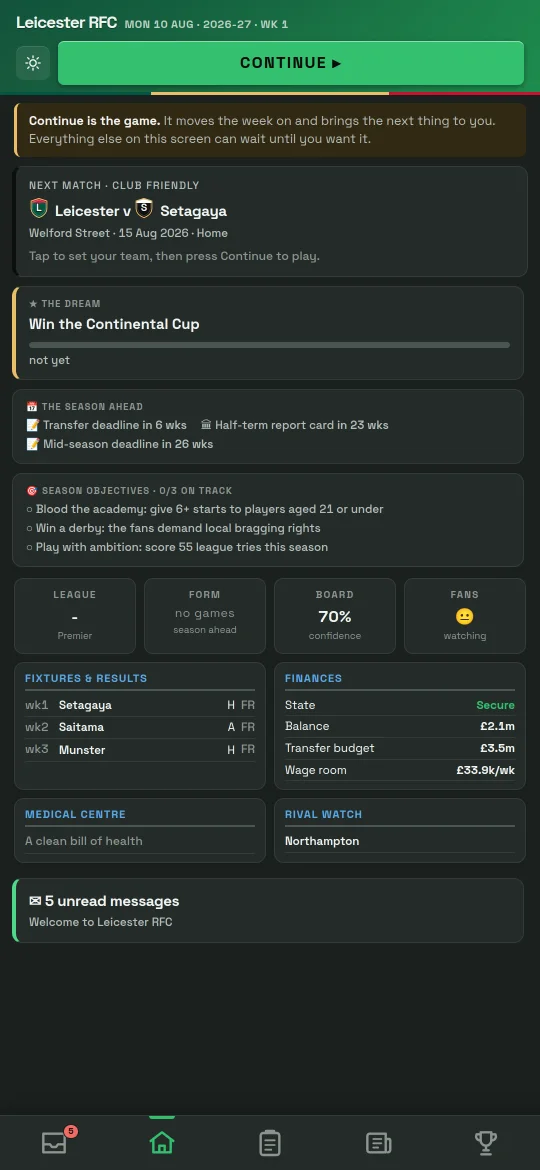
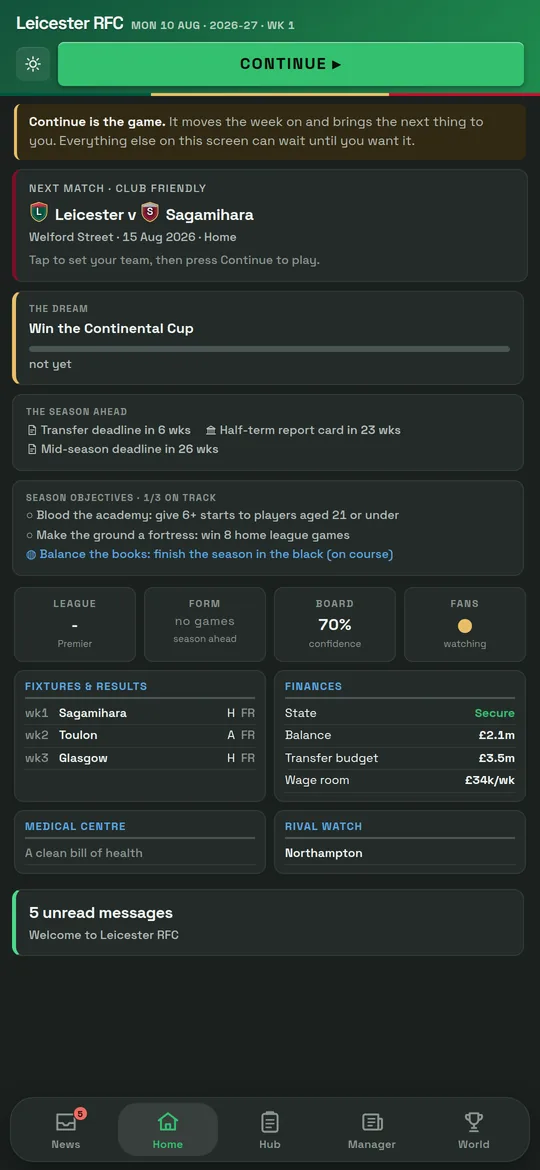
FWDS & BCKS LTD as publisher; info@fwdsandbcks.com; the landing page brought up to date
The game's contact address is now info@fwdsandbcks.com (bugreport.ts
DEV_CONTACT, the one place it lives), and About names the publisher with its
registered address. The privacy policy gains a Who we are section, names the
company where it said "the developer", says the store and Discord links open
outside the game only when tapped, and loses its two em dashes.

The landing page: 171 clubs in fifteen leagues (it still said over a hundred
in eight), four screenshots from the 1.8.0 build (team sheet, live match,
full time, home), two new features (player against player, the community),
a Discord button and footer link, and the publisher and version in the
footer. landingprobe checks the publisher and that the footer's version is
package.json's; storeprobe and the listing carry the new address.

Claude-Session: https://claude.ai/code/session_019rwDxFWEwuYK7ZNhpgNECm

diff --git a/landing/index.html b/landing/index.html
@@ -6,7 +6,7 @@
 <meta name="color-scheme" content="dark">
 <meta name="theme-color" content="#1a201e">
 <title>PHASE: Rugby Manager</title>
-<meta name="description" content="Take a club from the bottom to the top. A deep, offline rugby union manager for iPhone and Android, with over a hundred clubs across eight competitions.">
+<meta name="description" content="Take a club from the bottom to the top. A deep, offline rugby union manager for iPhone and Android, with 171 clubs in fifteen leagues across the men's and women's game.">
 <link rel="canonical" href="https://phaserugbymanager.com/">
 <link rel="icon" href="./img/icon.svg" type="image/svg+xml">
 <link rel="apple-touch-icon" sizes="180x180" href="./img/icon-180.png">
@@ -299,7 +299,7 @@ footer a:hover { color: var(--primary); }
 <main>
   <section class="wrap">
     <h2>A career worth the chase</h2>
-    <p class="sub">Over a hundred clubs across eight competitions, from the English top flight to Japan, with second tiers, a continental cup, playoffs and promotion underneath them. Men's and women's games, each with their own clubs, competitions and challenges.</p>
+    <p class="sub">171 clubs in fifteen leagues. Nine in the men's game, from the English top flight to Japan and the United States; six in the women's game, built the same way. Second tiers, continental cups, playoffs and promotion underneath them.</p>
 
     <div class="shots" id="shots">
       <figure class="shot">
@@ -307,7 +307,11 @@ footer a:hover { color: var(--primary); }
         <figcaption>Name a side. Live with it.</figcaption>
       </figure>
       <figure class="shot">
-        <img src="./img/shot-match.webp" alt="A finished match: the full-time score, the scorers and the match statistics." width="540" height="1170" loading="lazy">
+        <img src="./img/shot-live.webp" alt="A live match: the score, the latest commentary line and the live statistics." width="540" height="1170" loading="lazy">
+        <figcaption>Every carry, tackle and ruck, played out.</figcaption>
+      </figure>
+      <figure class="shot">
+        <img src="./img/shot-match.webp" alt="A finished match: the full-time score, the scorers, the coach's verdict and the highlights." width="540" height="1170" loading="lazy">
         <figcaption>Eighty minutes, then the verdict.</figcaption>
       </figure>
       <figure class="shot">
@@ -332,6 +336,14 @@ footer a:hover { color: var(--primary); }
         <p>Answer for a run of defeats, a dropped captain or a signing who cannot settle. What you say reaches the dressing room.</p>
       </div>
       <div class="feat">
+        <h3>Player against player</h3>
+        <p>Every carry, tackle and breakdown is a contest between the men involved. Tired legs concede, so the bench and the hour mark matter.</p>
+      </div>
+      <div class="feat">
+        <h3>A community</h3>
+        <p>Report a bug in any of the six languages, share an idea and talk rugby with other managers on the <a href="https://discord.gg/3KKfDVsMb">PHASE Discord</a>.</p>
+      </div>
+      <div class="feat">
         <h3>It remembers</h3>
         <p>Season fifteen knows what you did in season one: the trophies, the promotions, the sackings and the players you brought through.</p>
       </div>
@@ -354,16 +366,22 @@ footer a:hover { color: var(--primary); }
         <svg viewBox="0 0 24 24" fill="currentColor" aria-hidden="true"><path d="M16.4 12.7c0-2.2 1.8-3.3 1.9-3.3-1-1.5-2.6-1.7-3.2-1.7-1.4-.1-2.7.8-3.3.8-.7 0-1.7-.8-2.8-.8-1.5 0-2.8.8-3.5 2.1-1.5 2.6-.4 6.5 1.1 8.6.7 1 1.6 2.2 2.7 2.2 1.1 0 1.5-.7 2.8-.7 1.3 0 1.6.7 2.8.7 1.2 0 1.9-1.1 2.6-2.1.8-1.2 1.2-2.4 1.2-2.4s-2.3-.9-2.3-3.4ZM14.3 6c.6-.7 1-1.7.9-2.7-.9 0-2 .6-2.6 1.3-.6.6-1.1 1.7-.9 2.6 1 .1 2-.5 2.6-1.2Z"/></svg>
         <span><span class="l1">Coming soon to</span><span class="l2">the App Store</span></span>
       </span>
+      <a class="store live" href="https://discord.gg/3KKfDVsMb">
+        <svg viewBox="0 0 24 24" fill="none" stroke="currentColor" stroke-width="2" stroke-linecap="round" stroke-linejoin="round" aria-hidden="true"><path d="M4 5h16a1 1 0 0 1 1 1v10a1 1 0 0 1-1 1H9l-5 4v-4H4a1 1 0 0 1-1-1V6a1 1 0 0 1 1-1Z"/><path d="M8 10h8M8 13h5"/></svg>
+        <span><span class="l1">Join the community</span><span class="l2">on Discord</span></span>
+      </a>
     </div>
   </div>
 </div>
 
 <footer>
   <div class="wrap">
-    <span>PHASE: Rugby Manager</span>
+    <span>PHASE: Rugby Manager &middot; version 1.8.0<br>
+      Published by FWDS &amp; BCKS LTD, 71-75 Shelton Street, London, WC2H 9JQ</span>
     <nav>
       <a href="./privacy.html">Privacy</a>
-      <a href="mailto:phaserugbymanager@gmail.com">Contact</a>
+      <a href="https://discord.gg/3KKfDVsMb">Discord</a>
+      <a href="mailto:info@fwdsandbcks.com">Contact</a>
     </nav>
   </div>
 </footer>

diff --git a/public/privacy.html b/public/privacy.html
@@ -27,7 +27,12 @@
 <body>
 
 <h1>Privacy Policy</h1>
-<p class="sub">PHASE: Rugby Manager &middot; last updated 5 September 2026</p>
+<p class="sub">PHASE: Rugby Manager &middot; last updated 28 September 2026</p>
+
+<h2>Who we are</h2>
+<p>PHASE: Rugby Manager is published by <strong>FWDS &amp; BCKS LTD</strong>,
+71-75 Shelton Street, London, WC2H 9JQ, United Kingdom. Contact:
+<a href="mailto:info@fwdsandbcks.com">info@fwdsandbcks.com</a>.</p>
 
 <p><strong>The short version: the game itself collects nothing about you and
 sends nothing anywhere. The Android and iOS apps show a small number of
@@ -51,19 +56,25 @@ app's private storage:</p>
   <li><strong>Settings</strong> - night mode, text size, language, and whether
       you have supported the game - in local storage.</li>
 </ul>
-<p>None of it leaves the device. Nobody else can read it, including the
-developer. Deleting the app, or clearing the site data, deletes all of it
+<p>None of it leaves the device. Nobody else can read it, including FWDS &amp;
+BCKS LTD. Deleting the app, or clearing the site data, deletes all of it
 permanently: there is no copy anywhere else, which is why the game has an Export
 button on the Save / Load screen for keeping your own backups.</p>
 
 <h2>Network use</h2>
 <p>The game itself is fully offline once loaded: the simulation makes no network
 requests, sends nothing anywhere, and its published source is checked
-automatically on every build for anything that could &mdash; network calls,
-third-party scripts, remote fonts &mdash; with the build failing if one appears.
+automatically on every build for anything that could (network calls,
+third-party scripts, remote fonts), with the build failing if one appears.
 The one exception in the Android and iOS apps is advertising (below), which is
 the app shell's doing rather than the game's, and which the "Remove all ads"
 purchase switches off entirely.</p>
+<p>The game also contains two kinds of link that open <em>outside</em> it, and
+only when you tap them: the app store page, and the PHASE community server on
+Discord. Opening them is your choice, and nothing about you or your career goes
+with the tap. If you post a bug report on Discord, it is because you copied it
+and pasted it there yourself; Discord's own privacy policy then applies to what
+you post.</p>
 
 <h2>Purchases</h2>
 <p>Where the game is distributed through an app store, it offers a small
@@ -126,7 +137,7 @@ the app has stored:</p>
   <li><strong>Purchases</strong> are records held by Google Play or the Apple
       App Store under your account with them, not by us.</li>
 </ul>
-<p>Nothing is kept by the developer, so there is no retention period: once it
+<p>Nothing is kept by FWDS &amp; BCKS LTD, so there is no retention period: once it
 is gone from your device, it is gone. If you have a question about any of this,
 write to the address below.</p>
 
@@ -139,7 +150,8 @@ let you reset or delete the advertising identifier it uses.</p>
 
 <h2>Contact</h2>
 <p>Questions about this policy, or anything else:
-<a href="mailto:phaserugbymanager@gmail.com">phaserugbymanager@gmail.com</a>.</p>
+<a href="mailto:info@fwdsandbcks.com">info@fwdsandbcks.com</a>, or by post to FWDS &amp;
+BCKS LTD, 71-75 Shelton Street, London, WC2H 9JQ, United Kingdom.</p>
 
 <hr />
 

diff --git a/src/ui/screens/About.tsx b/src/ui/screens/About.tsx
@@ -1,7 +1,7 @@
 import { useEffect, useState } from 'react'
 import { useStore } from '../../store'
 import { SectionTitle } from '../components'
-import { DEV_CONTACT } from '../../game/bugreport'
+import { DEV_CONTACT, PUBLISHER, PUBLISHER_ADDRESS } from '../../game/bugreport'
 import { COMMUNITY_URL } from '../../game/community'
 import { adBridgePresent, adBridgeWhy, billingBridgePresent, tillHealth, tillOpen } from '../../game/monetise'
 import { nativePlatform } from '../../game/shell'
@@ -143,6 +143,11 @@ export default function About() {
         <div className="fact-label">{t('about.contactLabel')}</div>
         <div className="meta">{t('about.contactBody')}</div>
         <a className="btn ghost block" style={{ marginTop: 8 }} href={`mailto:${DEV_CONTACT}`}>{DEV_CONTACT}</a>
+        {/* the company's own name and address are not translated: they are
+            what is on the register, in every language */}
+        <div className="meta muted" style={{ marginTop: 10 }}>
+          {t('about.publishedBy')} <b>{PUBLISHER}</b>, {PUBLISHER_ADDRESS}
+        </div>
       </div>
 
       <div className="muted" style={{ padding: '4px 16px 0', fontSize: 12 }}>{t('about.thanks')}</div>

diff --git a/scripts/landingprobe.ts b/scripts/landingprobe.ts
@@ -80,7 +80,15 @@ ok(/property="og:image" content="https:\/\/phaserugbymanager\.com\//.test(html),
 // ---- 3. the routes off it ----
 ok(!/href="[^"]*play\//.test(html), 'it offers NO link to a browser build, because there is not one to link to')
 ok(/href="\.\/privacy\.html"/.test(html), 'it links to the privacy policy, which reviewers and players both look for')
-ok(/mailto:phaserugbymanager@gmail\.com/.test(html), 'and carries the contact address from the store listing')
+ok(/mailto:info@fwdsandbcks\.com/.test(html), 'and carries the contact address from the store listing')
+// the publisher is the company, by its registered name (1.8.0)
+ok(/Published by FWDS &amp; BCKS LTD/.test(html), 'it names the publisher')
+// and the version it advertises is the one that ships, so the page cannot
+// quietly go on selling last season's game
+{
+  const version = JSON.parse(readFileSync('package.json', 'utf8')).version
+  ok(html.includes(`version ${version}`), `the footer's version is package.json's (${version})`)
+}
 
 // ---- 4. the store buttons ----
 //

diff --git a/src/game/bugreport.ts b/src/game/bugreport.ts
@@ -28,7 +28,13 @@ import { billingReason, lookupReason } from './monetise'
  * change if the destination moves - and it is published in the client of a
  * public build, so it should be an address that can stand being seen.
  */
-export const DEV_CONTACT = 'phaserugbymanager@gmail.com'
+export const DEV_CONTACT = 'info@fwdsandbcks.com'
+
+/** Who publishes the game (28 Sep 2026): the company, never a person. The
+ *  About screen and the privacy policy both carry it; a store listing asks
+ *  for the same name and address. */
+export const PUBLISHER = 'FWDS & BCKS LTD'
+export const PUBLISHER_ADDRESS = '71-75 Shelton Street, London, WC2H 9JQ, United Kingdom'
 
 /** How many crashes to keep. A ring, because a broken screen in a render loop
  *  can throw a hundred times a second and the first one is the interesting one. */

diff --git a/docs/store-listing.md b/docs/store-listing.md
@@ -19,7 +19,9 @@ the first thing a reviewer sees.
 | Package / bundle id | `com.phaserugbymanager.app` |
 | Category | Games → Sports (Play), Games → Sports / Simulation (App Store) |
 | Price | free, with in-app purchases (decided 27 Aug: the free edition, not paid up front - see `docs/monetisation.md`) |
-| Contact e-mail | phaserugbymanager@gmail.com |
+| Contact e-mail | info@fwdsandbcks.com |
+| Developer / publisher | FWDS & BCKS LTD |
+| Registered address | 71-75 Shelton Street, London, WC2H 9JQ, United Kingdom |
 | Privacy policy URL | `https://phaserugbymanager.com/privacy.html` (ships in `public/`) |
 | Support URL | the same page, which carries the contact address |
 | Content rating | 3+ / Everyone (see the questionnaire below) |

diff --git a/README.md b/README.md
@@ -9,7 +9,7 @@ fictional (location-based identities, since v1.0.2) and no official badge, kit
 or logo ships with the game. Player names are real, used to identify people in a
 sporting database and for nothing else; the game is not affiliated with,
 endorsed by or licensed by any player, club, league or governing body. Anybody
-named who would rather not be can write to phaserugbymanager@gmail.com and will
+named who would rather not be can write to info@fwdsandbcks.com and will
 be removed in the next update.
 
 The game collects nothing and sends nothing anywhere: no accounts, no analytics,

diff --git a/packaging/ios/APP-REVIEW-REPLY.md b/packaging/ios/APP-REVIEW-REPLY.md
@@ -80,7 +80,7 @@ no authentication service, no third-party payment processor, no analytics SDK,
 no advertising SDK and no AI service. The app makes no network requests of its
 own; all content is bundled and all game state is stored on the device. The
 "Report a bug" and contact buttons open the device's Mail app to
-phaserugbymanager@gmail.com; nothing is sent automatically.
+info@fwdsandbcks.com; nothing is sent automatically.
 
 **5. Regional differences.** None. The app functions identically in every
 region. It ships in English, French, Spanish, Italian and Japanese, chosen by
